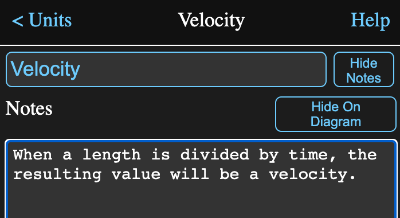
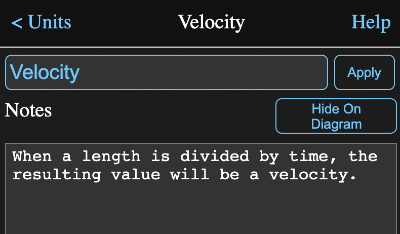
updated notes help

diff --git a/help/notes.html b/help/notes.html
@@ -29,8 +29,13 @@
 				<img src="notesview.png" alt="Notes View">
 				<p>
 					You can enter any text you want into the large text area of the notes view.  Tapping on
-					the <b>Hide Notes</b> button beside the name field will return to the normal
-					<a href="infoview.html">information view</a>.
+					the <b>Apply</b> button beside the name field will assign the changed notes to the tool
+					and return to the normal <a href="infoview.html">information view</a>.
+				</p>
+				<p>
+					If you switch to another tool by tapping on the diagram without tapping either the
+					<b>Apply</b> button or the <b>Show on Diagram</b> button, any changes you have made will
+					be lost.
 				</p>
 				<p>
 					You can access the notes for any tool in a formula with the <b>notes</b> parameter.  For
